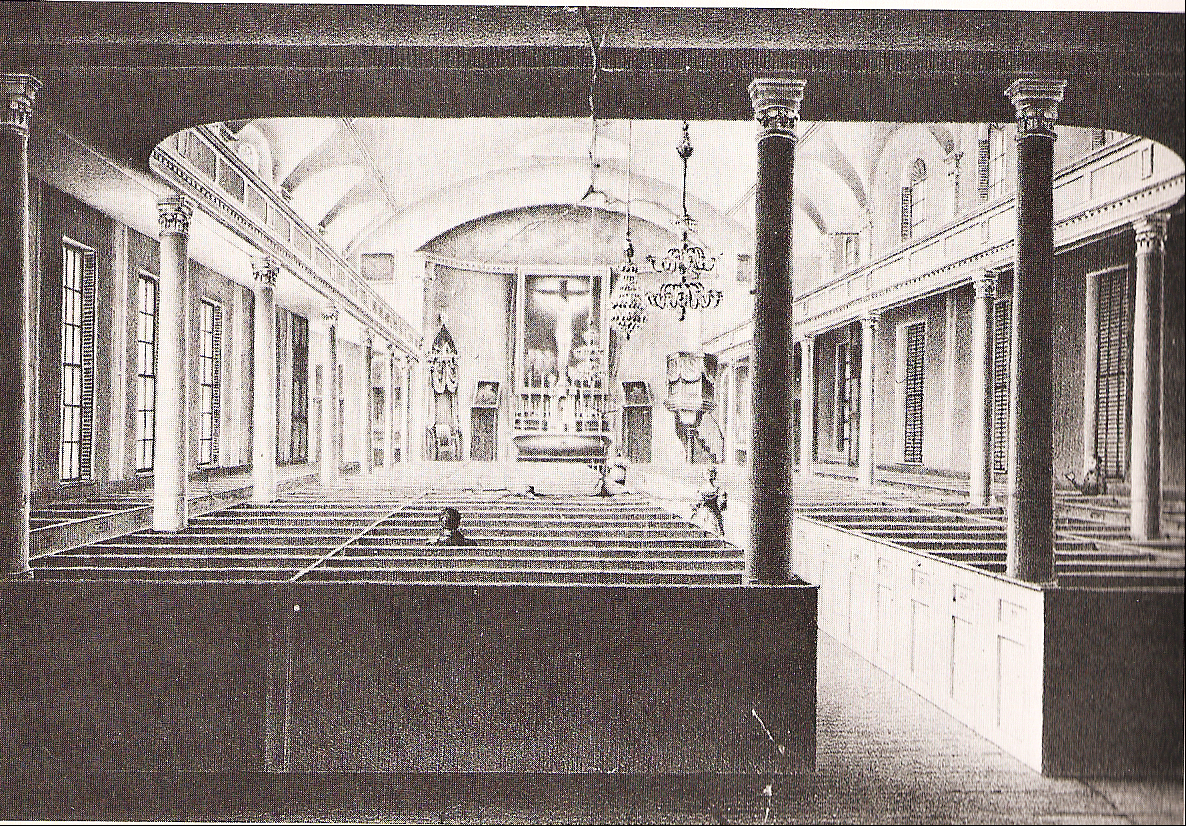
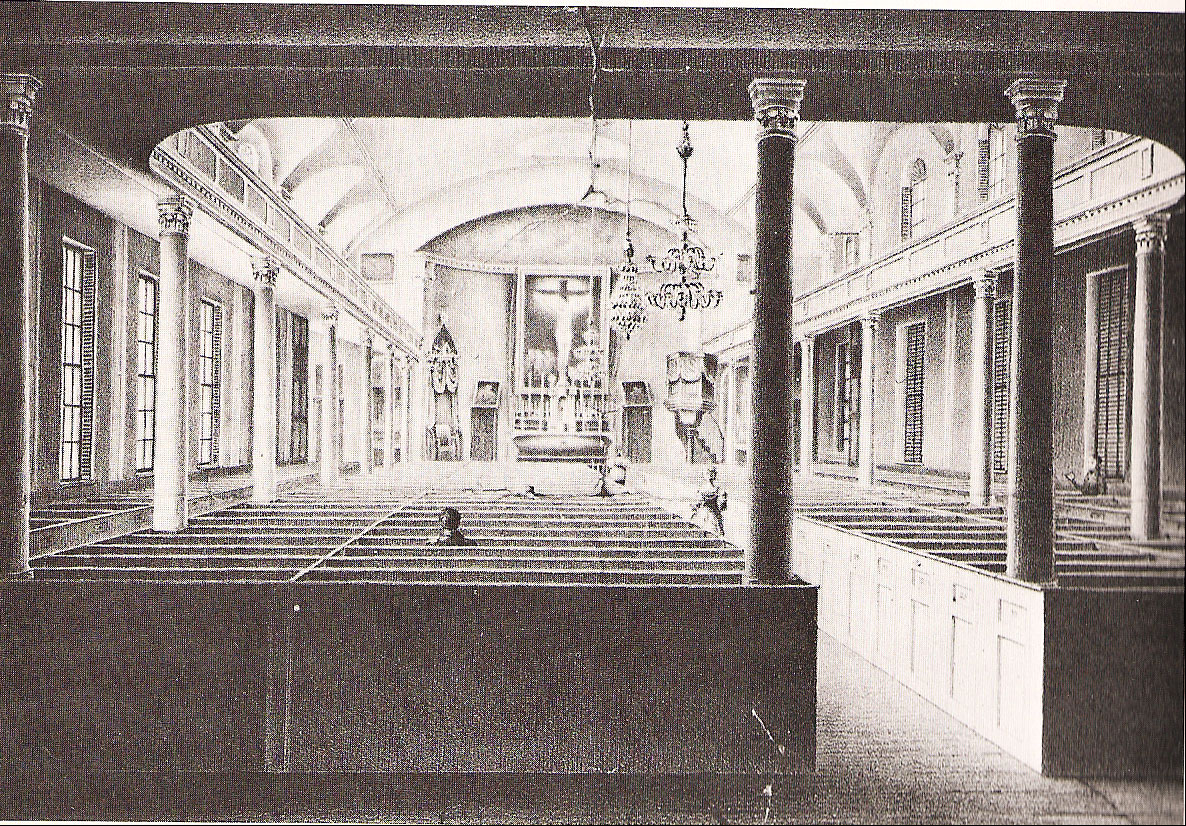
Images Optimized

diff --git a/index.html b/index.html
@@ -936,7 +936,7 @@
             <!--- Timeline content 3 start -->
             <div id="parish_1800_1809" class="tm-content-row content-popup-wrapper">
               <a href="#" alt="Timeline-content" data-toggle="modal" data-target="#tm-Modal3">
-                <img src="images/timeline-images/1800_StateSt_byJamesBrownMarston.png" alt="An 1801 painting of State Street by James Brown Marston." />
+                <img src="images/timeline-images/1800_StateSt_byJamesBrownMarston.jpg" alt="An 1801 painting of State Street by James Brown Marston." />
                 <div class="button-container">
                   <button class="slideshow-btn btn site-button">
                     <i class="fa fa-clone btn-icon" aria-hidden="true"></i>
@@ -962,7 +962,7 @@
                             <!-- Wrapper for slides -->
                             <div class="carousel-inner" role="listbox">
                               <div class="item active">
-                                <img src="images/timeline-images/1800_StateSt_byJamesBrownMarston.png" alt="An 1801 painting of State Street by James Brown Marston."/>
+                                <img src="images/timeline-images/1800_StateSt_byJamesBrownMarston.jpg" alt="An 1801 painting of State Street by James Brown Marston."/>
                                 <!-- commented out for lack of second image for this section, add back in if find another one
                                 </div>
                                 <div class="item">
